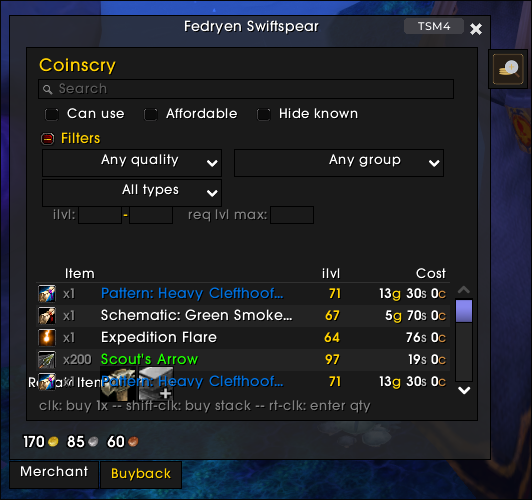
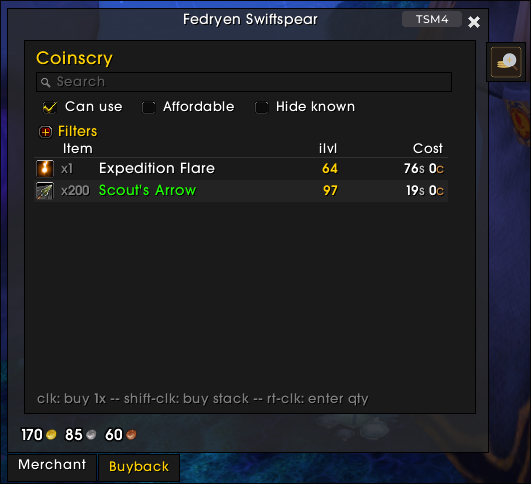
Refresh 01-embedded screenshot to the compact-default view

diff --git a/cf_desc.md b/cf_desc.md
@@ -19,8 +19,6 @@ The panel auto-detects which frame is in front and re-anchors as you open and cl
 
 Compact by default — only search and the three usage checkboxes are shown until you expand the **Filters** header.
 
-![compact default layout](https://raw.githubusercontent.com/WastelandRoot/coinscry/main/Media/screenshots/05-collapsed.png)
-
 - **Search** — case-insensitive substring on item names.
 - **Can use** — hides items WoW marks red in the merchant frame (wrong class, wrong proficiency, level too low, missing profession, etc.). Driven by `GetMerchantItemInfo`'s `isUsable` flag, so it matches WoW's own determination exactly.
 - **Affordable** — checks both gold and any extended-cost items/currencies.

diff --git a/README.md b/README.md
@@ -16,10 +16,6 @@ TSM ships its vendor filter button as a stub (literal `-- TODO` in `Core/UI/Vend
 |---|---|
 | ![quality-type](Media/screenshots/03-quality-type.png) | ![can-use-affordable](Media/screenshots/04-can-use-affordable.png) |
 
-| Default compact layout — only search + the three checkboxes shown; advanced filters collapse behind a header click |
-|---|
-| ![collapsed](Media/screenshots/05-collapsed.png) |
-
 ## Installation
 
 1. Download the latest release (or clone this repo into your AddOns folder).
